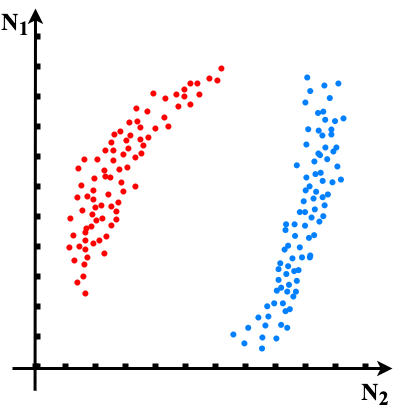
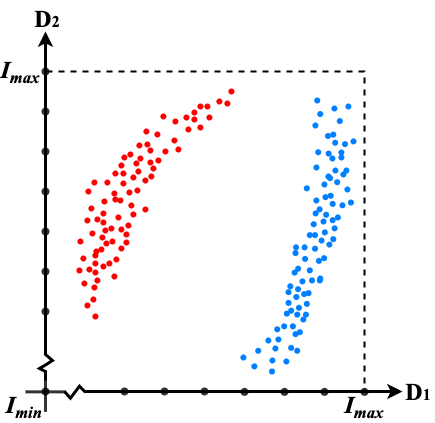
更新 图像和预分割阶段的说明

Changed region(s): [[0.0, 0.0293, 0.9851, 0.9951], [0.3582, 0.2049, 0.3881, 0.2341]]

diff --git a/README.md b/README.md
@@ -274,13 +274,13 @@ $$
 
 本阶段将介绍编码单元的预分割原则。
 
-在开始时，数据集中的所有样本点都包含在一个大的编码单元中，而在“预分割”阶段，我们需要对初始的编码单元进行分割为更小的单元，直到：
+在开始时，数据集中的所有样本点都包含在一个大的编码单元中。在“预分割”阶段，需要将初始的编码单元分割为更小的单元，直到满足其中一个条件：
 
-- 每个编码单元中不存在任何样本点
+- 编码单元中不存在任何样本点
 
-- 当前编码单元中最大占比目标值的样本点比例 $p$ 唯一，且大于等于指定的阈值 $t$（threshold）。
+- 在当前编码单元中，占比最高的某种样本点的比例 $p$ 大于等于指定的阈值 $t$（threshold）。
 
-    这一步中，阈值 $t$ 是作为编码单元分类器 CUC 的超参数出现的，$0 \leq t \leq 1$，具体大小由用户在初始化 CUC 估计器时指定。通过判断 $t \leq p$ 的目的是为了避免过拟合（overfitting），减少数据集中的异常值对 CUC 分类性能的影响。
+    这里，阈值 $t$ 是作为编码单元分类器 CUC 的超参数出现的，在初始化 CUC 估计器时，用户需要指定具体值，并且 $0 \leq t \leq 1$。通过判断 $t \leq p$ 的目的是为了避免过拟合（overfitting），减少数据集中的异常值对 CUC 分类性能的影响。
     
     在编码单元内，占比最高的某种样本点的比例 $p$，可以用以下公式计算：
     $$
@@ -314,19 +314,44 @@ FOR 所有没有目标值$y_{CU_{i}}$ 的 $CU_{i}$
 
 #### 细化分割（refinement split）
 
-细化分割是在预分割基础上所进行的，其目的是为了提高后期预测的准确率，避免在后期“感染”过大的编码单元时造成的欠拟合（underfitting）。细化分割的次数 $C_{re}$ 是作为编码单元分类器 CUC 的超参数出现的，具体次数应该由用户指定。细化分割的方法是对已经预分割结束的所有单元再进行 $C_{re}$ 次均匀分割。
+细化分割是在预分割基础上所进行的，其目的是为了提高后期预测的准确率，避免在后期“感染”过大的编码单元时造成欠拟合（underfitting）。细化分割的次数 $C_{re}$ 是作为编码单元分类器 CUC 的超参数出现的，具体次数应该由用户指定。细化分割的具体步骤如下：
 
-下图中展示了一个当细化分割次数 $C_{re}=1$ 和 $C_{re}=2$ 时对某个编码单元的效果。
+1. 对已经预分割结束后获得的所有单元再进行 $C_{re}$ 次均匀分割
 
-![细化分割](doc/pic/细化分割.png)
+2. 由于经过 $C_{re}$ 次均匀分割后产生了更小的编码单元，其中可能会产生新的不包含任何样本点的空白编码单元，这些新产生的空白编码单元的目标值被重新标记为 $CU_{EMPTY}$。
+
+    下图中展示了一个当细化分割次数 $C_{re}=1$ 和 $C_{re}=2$ 时对某个编码单元的效果。可以看到，当经过 2 次均匀分割后，产生了新的空白编码单元，所以我们需要对其进行重新标注。
+
+    <img src="doc/pic/细化分割示例.png" alt="细化分割示例" style="zoom:50%;" />
+
+细化分割的主要步骤如算法2所示：
+
+```
+INPUT: 预分割结束后产生的所有 CU
+
+对预分割结束后产生的所有 CU在进行 $C_{re}$ 次均匀分割
+
+FOR every new CU:
+	IF (这个 CU 中没有样本):
+		$y_{CU_{i}} = CU_{EMPTY}$
+```
 
 
 
-#### 示例
+
+
+### 示例
 
 假设我们拥有一个包含红色和蓝色两种目标值的二维数据集，他们在数据预处理后的分布如下图所示：
 
 ![分割示例-粒子分布](doc/pic/分割示例-粒子分布.png)
+
+CUC 中的超参数：
+
+| 超参数   | 值   |
+| -------- | ---- |
+| $t$      |      |
+| $C_{re}$ |      |
 
 **预分割阶段：**
 
@@ -354,7 +379,7 @@ FOR 所有没有目标值$y_{CU_{i}}$ 的 $CU_{i}$
 
 6. 最终，我们将每个包含粒子的编码单元标记为其粒子所属的目标值
 
-    ![标记所属粒子群](doc/pic/标记所属粒子群.png)
+    ![重新标记空白单元](doc/pic/重新标记空白单元.png)
 
 至此，分割阶段结束。开始感染阶段。
 
